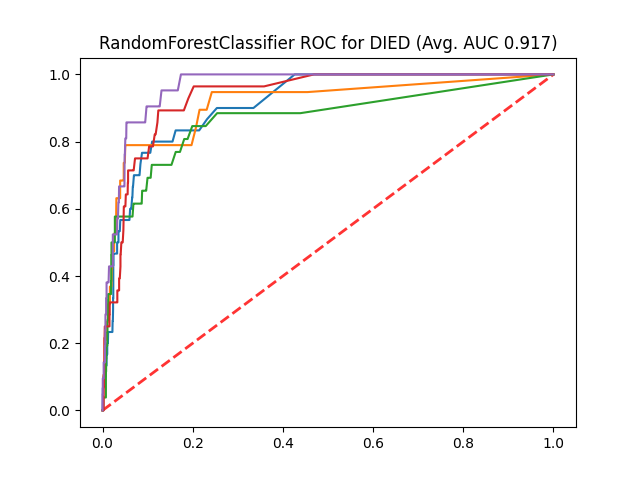
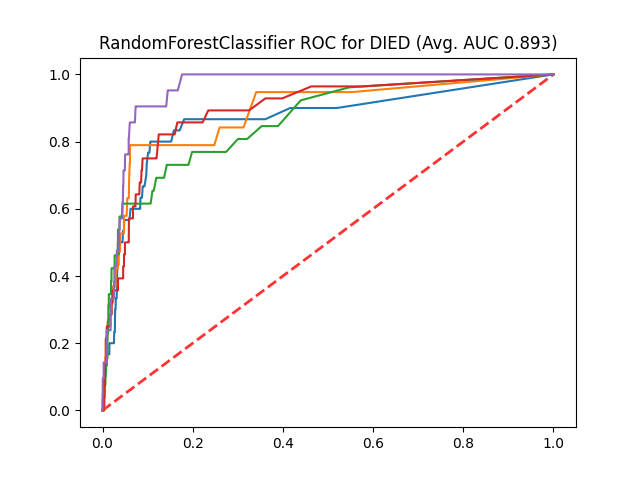
Remove APRDRG risk mortality as a feature

Changed region(s): [[0.1562, 0.1562, 0.8438, 0.75], [0.8125, 0.0625, 0.875, 0.125], [0.1562, 0.7812, 0.1875, 0.8438]]

diff --git a/modelingMain.py b/modelingMain.py
@@ -13,6 +13,9 @@ if __name__ == '__main__':
         df = pd.read_csv(f"{util.SETTINGS['cache_path']}/{ds}_preprocessed.csv")
         results_pickle = open(f'{ds}_test_results.pkl', 'wb')
 
+        # Decision to drop APRDRG_Risk_Mortality based on reviewer comments
+        df = df.drop(columns=["APRDRG_Risk_Mortality"])
+
         models = {
             'DT': tree.DecisionTreeClassifier(min_samples_leaf=100),
             'RF': RandomForestClassifier(n_jobs=-1, n_estimators=500),
